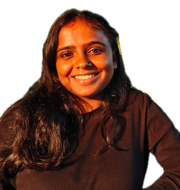
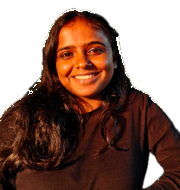
Founder-first copy, decision-story captions, contacts on top, a clean portrait edge
- Subtitle: I design and develop end-to-end products for founders and startups
- UX Gym line leads with the whole platform; Tata Steel dates are her years there, not the app's
- Every clip caption told as a decision story; no mention of AI tools; the funnel dashboard reframed
- Launch ask: a launch that converts, with the funnel in view
- Phone number and email always in the top bar, on phones as a second row
- Portrait: the yellow fringe on the hair edge removed

diff --git a/index.html b/index.html
@@ -46,6 +46,8 @@
       <header class="topbar over-dark">
     <a class="wordmark" href="index.html">Soumya<span>.</span></a>
     <div class="links">
+<!-- Her phone and email are always on show (her call, 2026-10-06), and
+           both copy on click like every contact on the page. -->
       <a class="pill" href="tel:+918074889819" data-copy="+91 80748 89819" data-action="wa">+91 80748 89819</a>
       <a class="pill" href="mailto:perlasoumyasri@gmail.com" data-copy="perlasoumyasri@gmail.com" data-action="mail">perlasoumyasri@gmail.com</a>
       <a class="pill solid" href="https://www.linkedin.com/in/perla-soumya/" target="_blank" rel="noopener">LinkedIn ↗</a>
@@ -65,8 +67,8 @@
                    design canvas, and "builder." ends at a blinking text caret,
                    the way it would in a code editor. -->
               <h2 class="db"><span class="db-sel">Design<i class="db-h tl"></i><i class="db-h tr"></i><i class="db-h bl"></i><i class="db-h br"></i></span><br><span class="db-build">builder.</span><i class="db-caret" aria-hidden="true"></i></h2>
-              <p class="db-sub">Product designer who codes.</p>
-              <p class="db-text">I turn a founder's intent into a product they can run without me. A developer turned UX designer, I explore how UX and AI can eliminate cognitive load. For UX Gym, I cut the time to review 30 students' projects from <mark class="mk">a week to 2 days</mark>.</p>
+              <p class="db-sub">I design and develop end-to-end products for founders and startups.</p>
+              <p class="db-text">I turn a founder's intent into a product they can run without me. A developer turned UX designer, I explore how UX and AI can eliminate cognitive load. For UX Gym, I designed and built the entire learning platform solo, cutting project reviews from <mark class="mk">a week to 2 days</mark> and admissions from 5 days to 4 hours.</p>
               <!-- The one thing to do on this page. WhatsApp is the primary
                    route because the founders she works with live on it and
                    it opens a conversation in one tap, with the first line
@@ -89,7 +91,7 @@
               <div class="cr">
                 <p class="cr-n"><b>30,000</b><span>people a year use it</span></p>
                 <p class="cr-k">Guest house app <span>Tata Steel</span></p>
-                <p class="cr-t">An enterprise app I designed and coded end to end, 2021 to 2024</p>
+                <p class="cr-t">An enterprise app I designed and coded end to end, in my three years there (2021 to 2024)</p>
               </div>
               <div class="cr now">
                 <p class="cr-n"><b>300+</b><span>students · 3 batches</span></p>
@@ -126,13 +128,13 @@
           <div class="panel med">
             <figure class="reel">
               <video class="is-live" src="assets/video/intro.mp4" poster="assets/poster/intro.jpg" muted playsinline preload="metadata"
-                     data-cap="From an idea to a tested platform in production in one month, built by one person. It currently runs 300+ students across 3 batches at the same time."></video>
+                     data-cap="To get the founder's idea in front of students fast, I took it from idea to a tested product in one month, alone. It currently runs 300+ students across 3 batches."></video>
               <video src="assets/video/canvas.mp4" poster="assets/poster/canvas.jpg" muted playsinline preload="metadata"
-                     data-cap="The workbooks became canvases that students work on like Figma: zoom, drag, answer. Far more students finish the exercise than ever finished the workbook."></video>
+                     data-cap="A workbook asks for effort and gives little back. So I turned every workbook into a canvas students work on like Figma: zoom, drag, answer. 80% to 100% of students finish each exercise."></video>
               <video src="assets/video/linkedin.mp4" poster="assets/poster/linkedin.jpg" muted playsinline preload="metadata"
-                     data-cap="Every finished exercise downloads as a post. Students sharing their work on LinkedIn went from 20% to 80%, and those posts have brought UX Gym thousands of leads, without spending on ads."></video>
+                     data-cap="To turn students' work into reach, I ended every exercise with a ready-to-post download. Sharing on LinkedIn went from 20% to 80%, bringing UX Gym thousands of leads without ads."></video>
               <video src="assets/video/builder.mp4" poster="assets/poster/builder.jpg" muted playsinline preload="metadata"
-                     data-cap="Admins paste text from Claude or any AI tool, and the page builds itself with its titles, headings and formatting. Building a module takes about 80% less of their time."></video>
+                     data-cap="Laying out every module by hand was slowing the admins down. So I built a page builder: they drop in the content and the page lays itself out. Building a module takes about 80% less of their time."></video>
             </figure>
             <div class="cap"><span class="num">01</span>
               <div>
@@ -187,19 +189,19 @@
           <div class="panel med">
             <figure class="reel">
               <video class="is-live" src="assets/video/pokemon.mp4" poster="assets/poster/pokemon.jpg" muted playsinline preload="metadata"
-                     data-cap="The student's own answers become their UX Pokemon, revealed like opening a pack of cards. 100% of students finish this exercise."></video>
+                     data-cap="To make finishing feel like a reward, the student's own answers become their UX Pokemon card, revealed like opening a pack. 100% of students finish this exercise."></video>
               <video src="assets/video/explore.mp4" poster="assets/poster/explore.jpg" muted playsinline preload="none"
-                     data-cap="For the screen students see when they finish a module, every design option was built for real, so the founder chose by using them, not by imagining them from a mockup."></video>
+                     data-cap="Rather than ask the founder to judge mockups, I built every option for the end-of-module screen for real. He chose by using them, not by imagining them."></video>
               <video src="assets/video/uxbehindui.mp4" poster="assets/poster/uxbehindui.jpg" muted playsinline preload="none"
-                     data-cap="In UX Behind UI, five invisible design decisions light up on a WhatsApp chat, one at a time. Students see the decision happen instead of reading about it."></video>
+                     data-cap="Design decisions are invisible, which makes them hard to teach. So in UX Behind UI, five of them light up on a WhatsApp chat, one at a time, and students see each one happen."></video>
               <video src="assets/video/pokeadmin.mp4" poster="assets/poster/pokeadmin.jpg" muted playsinline preload="none"
-                     data-cap="The founder checks any screen exactly the way a student will meet it, before a single student sees it. Mistakes are caught by him, not by his students."></video>
+                     data-cap="To catch mistakes before students do, the founder can preview any screen exactly as a student will meet it. Errors get fixed by him, not reported by his students."></video>
             </figure>
             <div class="cap"><span class="num">03</span>
               <div>
                 <p class="subt"></p>
                 <div class="dots"></div>
-                <p class="reel-claim">The lessons became interactive exercises, and students actually finish them. Every exercise is completed by 80% to 100% of students.</p>
+                <p class="reel-claim">The lessons became interactive exercises that students actually finish.</p>
               </div>
             </div>
           </div>
@@ -241,11 +243,11 @@
           <div class="panel med">
             <figure class="reel">
               <video class="is-live" src="assets/video/launch2.mp4" poster="assets/poster/launch2.jpg" muted playsinline preload="metadata"
-                     data-cap="1,016 people attended the four day launch, and UX Gym signed up 25% more paying customers than the year before. Each day's content unlocked on its own, on time."></video>
+                     data-cap="So the launch could run without a developer on call, each day's content unlocked on its own, on time. 1,016 people attended, and UX Gym signed up 25% more paying customers than the year before."></video>
               <video src="assets/video/adminday1.mp4" poster="assets/poster/adminday1.jpg" muted playsinline preload="none"
-                     data-cap="The founder switched the site between its sixteen states from his phone, live, on the day. No developer on call, and nothing ever went out late."></video>
+                     data-cap="To keep the founder in control on the day, I gave him every one of the site's sixteen states on his phone. He switched them live, and nothing ever went out late."></video>
               <video src="assets/video/dashboard.mp4" poster="assets/poster/dashboard.jpg" muted playsinline preload="none"
-                     data-cap="On launch night the dashboard showed him who stayed: 53.3% of the people who came on day one were still there when the offer opened."></video>
+                     data-cap="So the founder could see his funnel live, I designed an analytics dashboard showing who arrived each day and where people dropped off. After four days that filtered out casual visitors, it showed more than half of day one's audience, 53.3%, still there when the offer opened."></video>
             </figure>
             <div class="cap"><span class="num">04</span>
               <div>
@@ -260,7 +262,8 @@
                on the first screen, so the last card repeated the first. -->
           <div class="panel state ask">
             <p class="eyebrow">Your launch next</p>
-            <h3>Launching something? Run it from <em><span class="nb"><svg viewBox="0 0 24 24" aria-hidden="true"><path d="M12 2l2.4 7.6L22 12l-7.6 2.4L12 22l-2.4-7.6L2 12l7.6-2.4z"/></svg>your</span> own phone</em>, and see who stays while it happens.</h3>
+            <h3>Launching something? Let's build a launch that <em><span class="nb"><svg viewBox="0 0 24 24" aria-hidden="true"><path d="M12 2l2.4 7.6L22 12l-7.6 2.4L12 22l-2.4-7.6L2 12l7.6-2.4z"/></svg>converts</span></em>.</h3>
+            <p class="st-sub">Designed and built end to end, with your funnel in front of you while it runs, so you see who stays and where people drop off.</p>
             <div class="say-cta">
               <a class="cta" href="https://wa.me/918074889819?text=Hi%20Soumya%2C%20I%20saw%20your%20launch%20work%20and%20I%20would%20like%20to%20talk%20about%20a%20launch." target="_blank" rel="noopener">
                 <svg viewBox="0 0 24 24" aria-hidden="true"><path d="M12 3.5c-4.7 0-8.5 3.4-8.5 7.6 0 2.3 1.1 4.3 2.9 5.7l-.7 3.2 3.3-1.8c.9.3 1.9.4 3 .4 4.7 0 8.5-3.4 8.5-7.5S16.7 3.5 12 3.5z"/></svg>

diff --git a/style.css b/style.css
@@ -336,7 +336,7 @@ html:not(.js-face) .say-face img, .face-fallback .say-face img { visibility: vis
      screen under it: 220px on a tall phone, down to 100px on a short one.
      At 340px the face took most of the screen and the claim started at
      the bottom edge. */
-  .say-face { justify-self: center; height: clamp(110px, calc(100svh - 540px), 300px); }
+  .say-face { justify-self: center; height: clamp(100px, calc(100svh - 590px), 300px); }
   .hs .hs-track { padding-top: var(--s5); }
 }
 /* Until the face has landed, the claim and the record wait, so the
@@ -480,8 +480,8 @@ html:not(.js-face) .say-face img, .face-fallback .say-face img { visibility: vis
 /* steady while typing, like a real caret */
 .db-caret.typing { animation: none; opacity: 1; }
 .hs .panel.say .say-lead > p.db-sub {
-  margin-top: clamp(18px, 3vh, 30px); font-size: clamp(22px, 2.1vw, 30px); font-weight: 700;
-  letter-spacing: -.02em; line-height: 1.2; color: var(--ink);
+  margin-top: clamp(18px, 3vh, 30px); font-size: clamp(20px, 1.75vw, 26px); font-weight: 700;
+  letter-spacing: -.02em; line-height: 1.25; color: var(--ink); max-width: 30ch;
 }
 .hs .panel.say .say-lead > p.db-text { margin-top: 12px; font-size: 16.5px; line-height: 1.55; max-width: 62ch; }
 @media (prefers-reduced-motion: reduce) {
@@ -494,7 +494,7 @@ html:not(.js-face) .say-face img, .face-fallback .say-face img { visibility: vis
      170px portrait three to one. The headline steps down and the face
      grows, so the face leads and the words follow. */
   .hs .panel.say h2.db { font-size: clamp(42px, 12.4vw, 60px); }
-  .hs .panel.say .say-lead > p.db-sub { font-size: clamp(18px, 5.3vw, 21px); margin-top: 14px; }
+  .hs .panel.say .say-lead > p.db-sub { font-size: clamp(17px, 4.9vw, 20px); margin-top: 10px; }
   .db-h { width: 9px; height: 9px; margin: -4.5px 0 0 -4.5px; }
   .hs .panel.say .say-lead > p.db-text { font-size: 15.5px; }
 }
@@ -1285,7 +1285,7 @@ html:not(.js-face) .say-face img, .face-fallback .say-face img { visibility: vis
   /* A chapter break, not a card gap: the introduction ends here and the
      client work begins, so this seam gets more air than the rest. */
   .hs .panel.state { margin-top: clamp(16px, 6vw, 44px); }
-  /* All three contact pills stay reachable: the row scrolls sideways.
+  /* The pills stay reachable if they ever outgrow the row: it scrolls sideways.
      The padding lets the last pill clear the screen edge when it lands. */
   .topbar { flex-wrap: nowrap; }
   .topbar .links {
@@ -1707,7 +1707,25 @@ footer a { color: var(--muted); }
      sideways strip that cut the address off mid word, which read as
      broken, and both are a thumb away in the first screen's buttons and
      at the end of the page. It also gives the claim back a row. */
-  .topbar .links .pill:not(.solid) { display: none; }
+  /* On a phone the bar is two rows: the wordmark and LinkedIn, then the
+     phone number and email in full as plain links, so neither is ever cut
+     off (the old sideways-scrolling row cut the address mid word). */
+  .topbar {
+    display: grid; grid-template-columns: auto 1fr auto;
+    align-items: center; row-gap: 10px; column-gap: 16px;
+  }
+  .topbar .links { display: contents; }
+  .topbar .wordmark { grid-column: 1; grid-row: 1; }
+  .topbar .links .pill.solid { grid-column: 3; grid-row: 1; }
+  .topbar .links .pill:not(.solid) {
+    grid-row: 2; padding: 0; border: 0; background: none;
+    font-size: 13.5px; color: var(--iv2); text-decoration: underline;
+    text-decoration-color: var(--line); text-underline-offset: 3px;
+  }
+  .topbar .links .pill[data-action="wa"] { grid-column: 1; }
+  .topbar .links .pill[data-action="mail"] { grid-column: 2 / 4; justify-self: start; }
+  .hs-pin .topbar { padding-bottom: 6px; }
+  .hs .hs-track { padding-top: 6px !important; }
   .quote { flex-direction: column; align-items: flex-start; gap: var(--s4); }
   .owned, .stats, .facts { grid-template-columns: 1fr; }
   .hs .panel.nums .grid { grid-template-columns: 1fr; }
